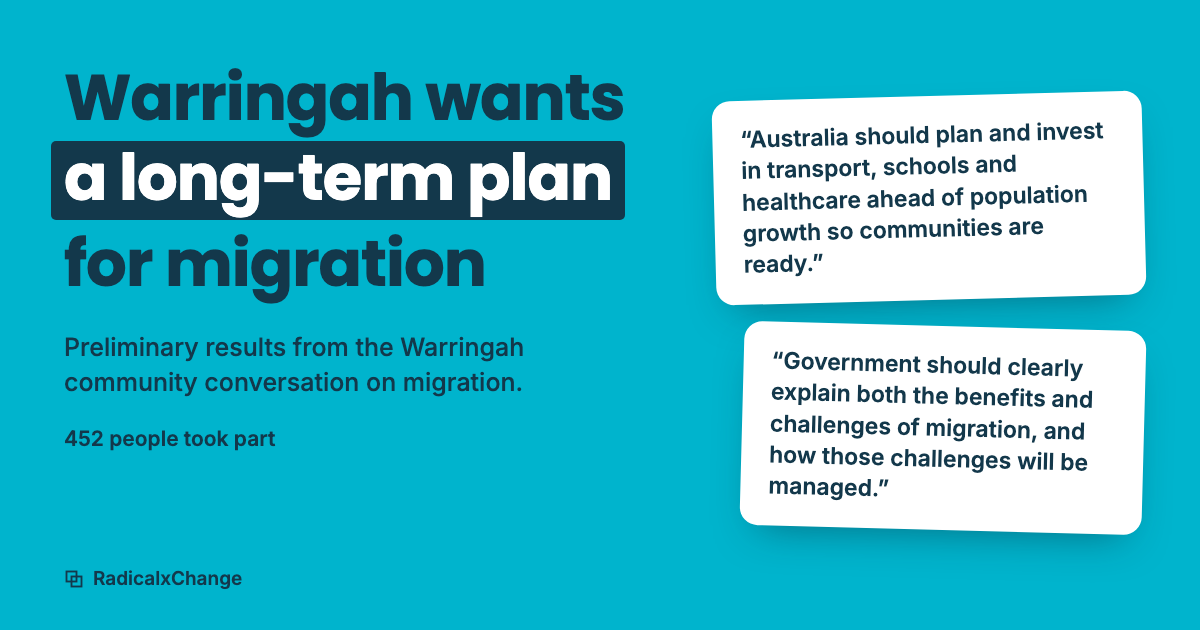
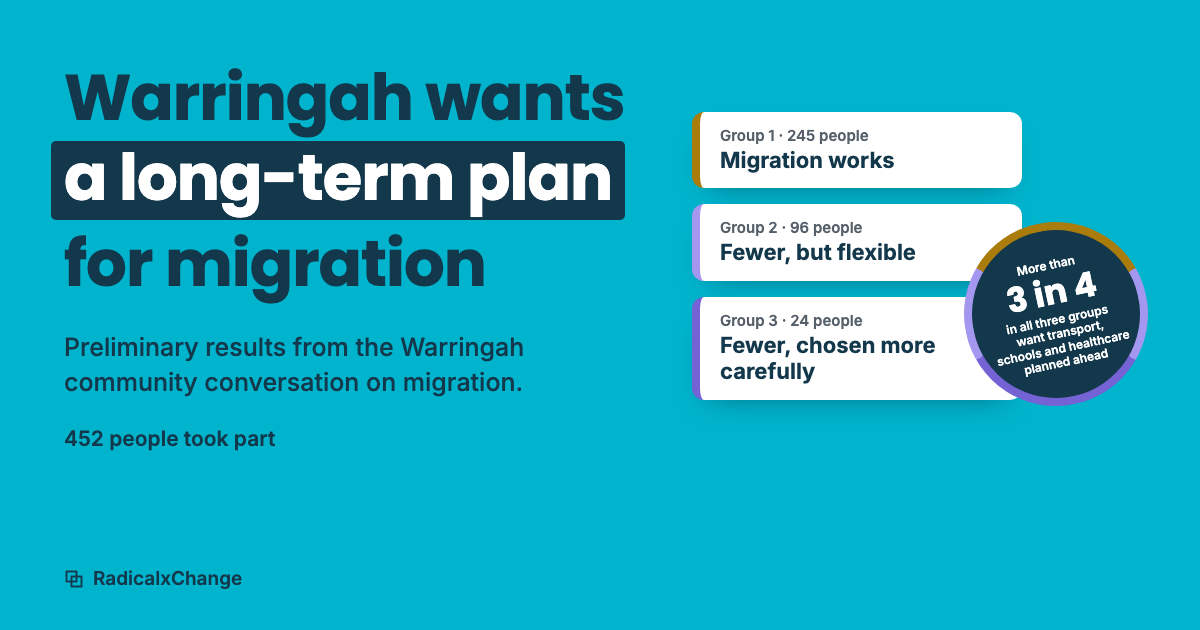
Warringah page: link-preview image with the three group labels
The image now matches the hero: the headline on the left, and on the
right the three group labels with the circle (more than 3 in 4 in all
three groups want transport, schools and healthcare planned ahead),
laid out like the other three-group pages' images. The og and twitter
alt text describe it.

Changed region(s): [[0.555, 0.1206, 0.9558, 0.8746]]

diff --git a/src/site/warringah-migration/README.md b/src/site/warringah-migration/README.md
@@ -25,8 +25,9 @@ in text wherever it appears. The page has light and dark modes.
 Its link-preview image is `src/site/assets/warringah-migration-og.png`
 (1200×630, referenced by the `og:image` and `twitter:image` tags). It was
 rendered from the page's own fonts and copy: the boxed headline, "452 people
-took part", and two statements from the conversation (39 and 280). If the
-headline or the turnout change, regenerate it.
+took part", and the hero's three group labels and circle, laid out like the
+other three-group pages' images. If the headline, the turnout, the groups or
+the circle change, regenerate it.
 
 ## While the results are preliminary
 
